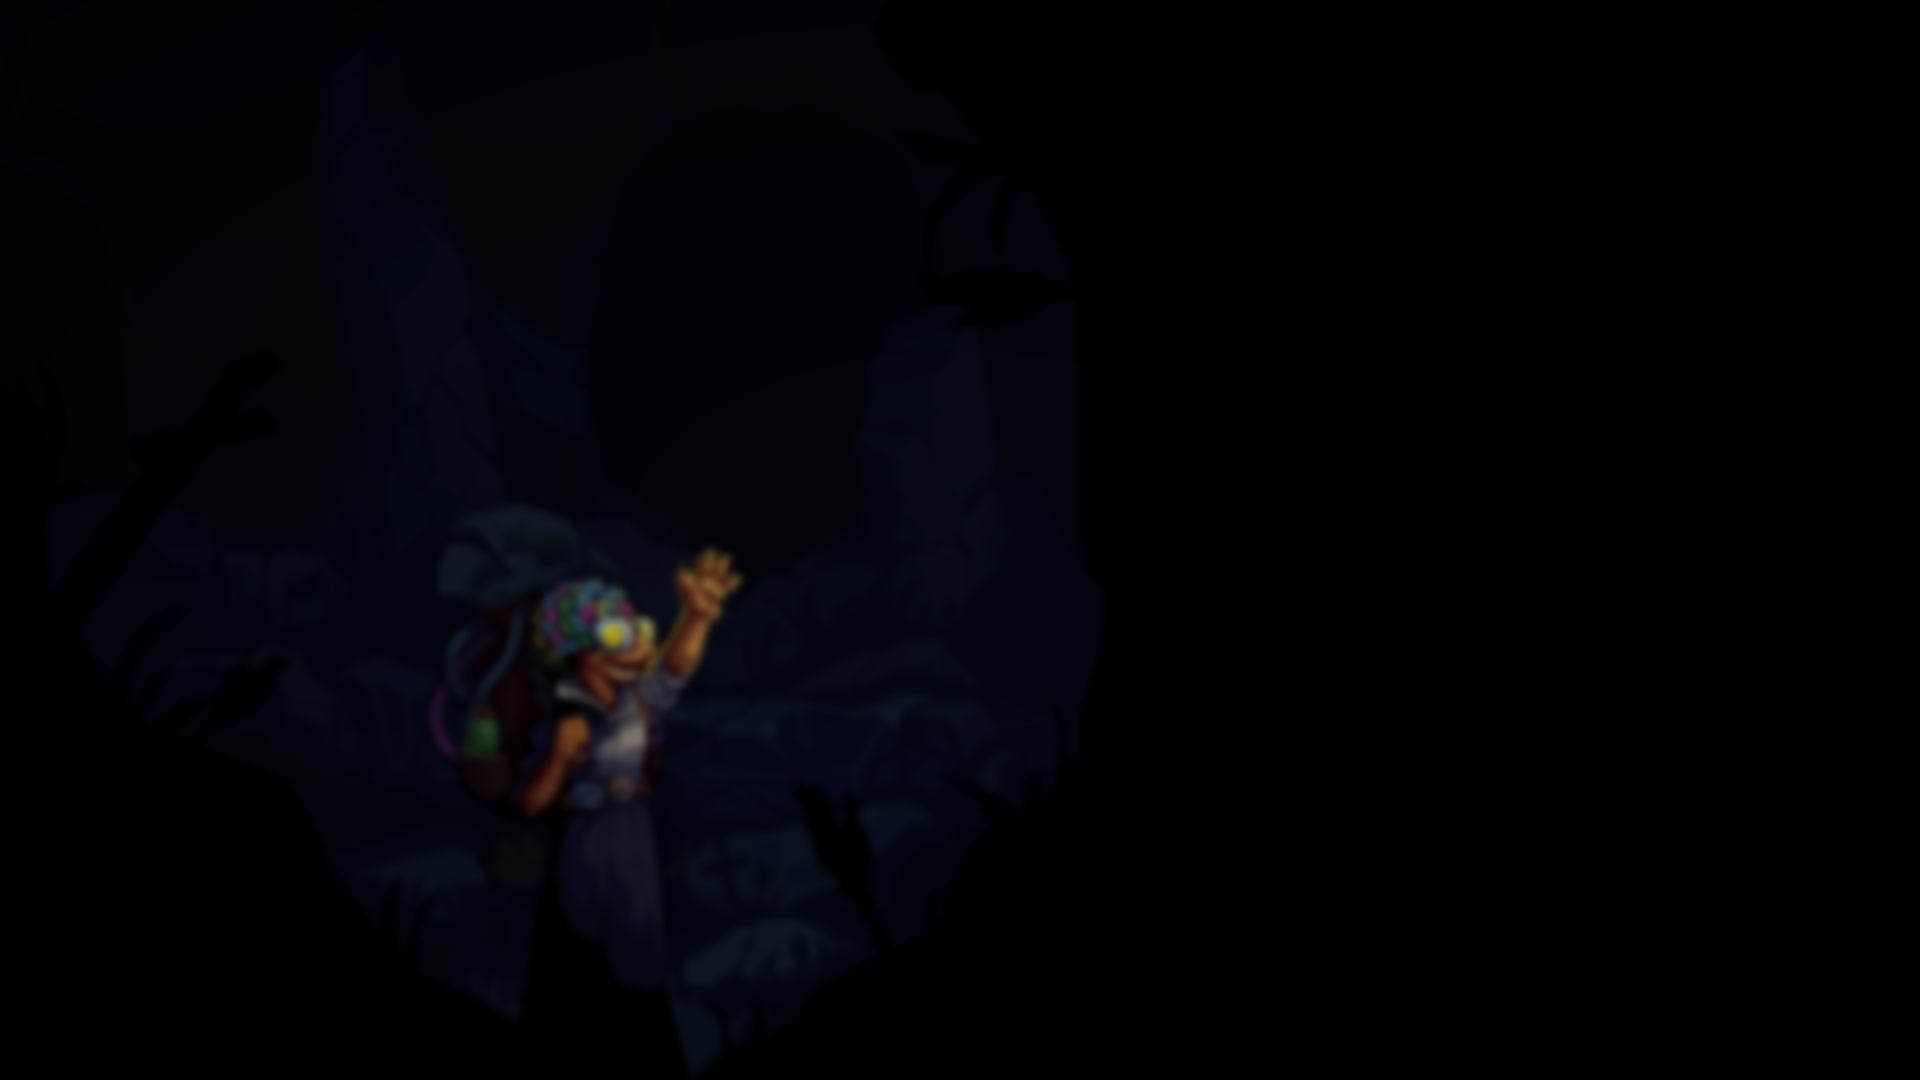
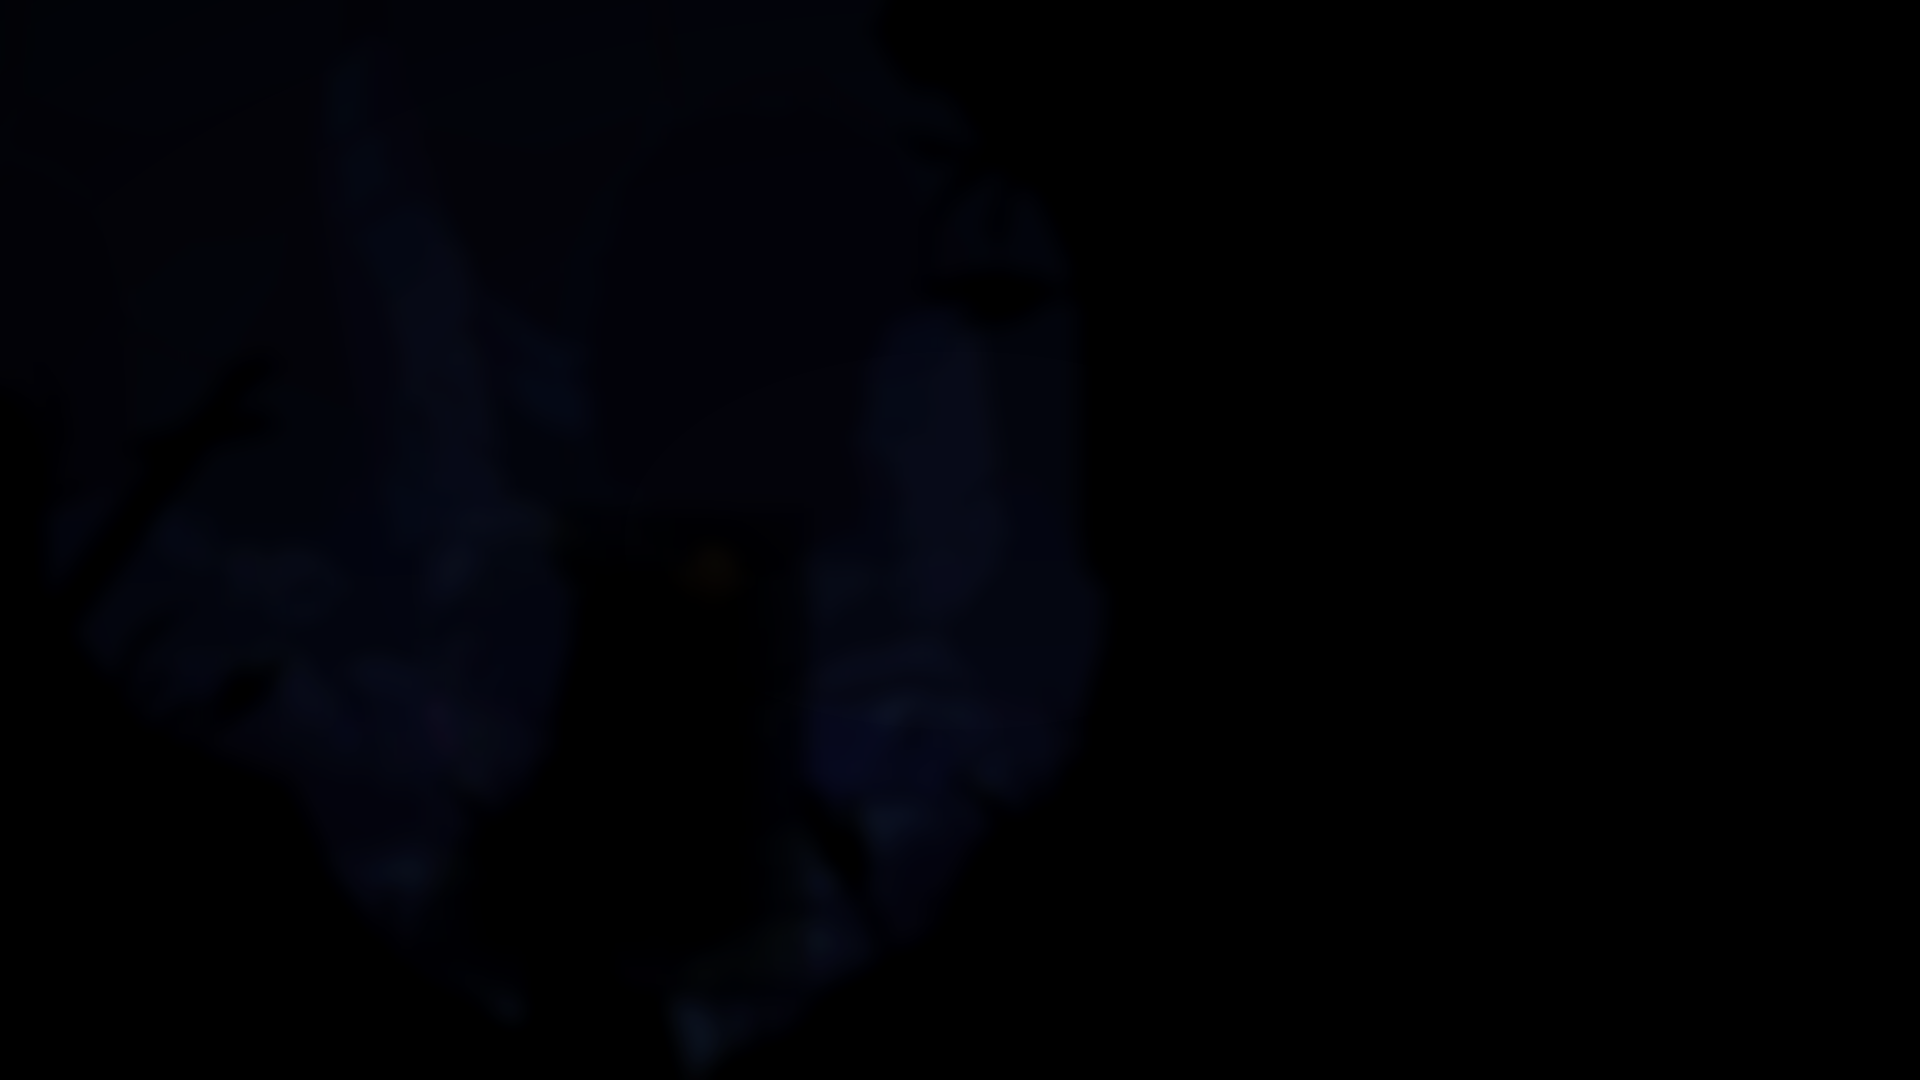
art: clean select backdrop, animation contact sheet, headless test script hardening

Changed region(s): [[0.2188, 0.4889, 0.4062, 0.8861], [0.3438, 0.8556, 0.4062, 0.9167]]

diff --git a/art/preview_sheet.py b/art/preview_sheet.py
@@ -1,0 +1,103 @@
+"""Offline previews for the mod page / docs.
+
+Not part of the mod.  Renders:
+  docs/select_mockup.png  - the character select backdrop + portrait composition
+  docs/anim_preview.png   - contact sheet of the combat animation key poses
+
+The poses mirror MadScientistVisuals.cs (same offsets/rotations/scales), so this
+is a good approximation of what the in-game AnimationPlayer does.
+"""
+from __future__ import annotations
+
+from pathlib import Path
+
+from PIL import Image, ImageDraw, ImageFont
+
+ROOT = Path(__file__).resolve().parent.parent
+IMG = ROOT / "MadScientist" / "images"
+DOCS = ROOT / "docs"
+FONT = r"C:\Windows\Fonts\msyh.ttc"
+FONT_B = r"C:\Windows\Fonts\msyhbd.ttc"
+
+GREEN = (168, 224, 95)
+
+
+def select_mockup() -> None:
+    bg = Image.open(IMG / "events" / "tinker_time_bg.png").convert("RGB").resize((1920, 1080))
+    canvas = bg.convert("RGBA")
+
+    portrait = Image.open(IMG / "charui" / "char_select_mad_scientist.png").convert("RGBA")
+    scale = 3.4
+    p = portrait.resize((int(portrait.width * scale), int(portrait.height * scale)), Image.LANCZOS)
+    canvas.alpha_composite(p, (250, 1080 - p.height - 90))
+
+    d = ImageDraw.Draw(canvas)
+    f_title = ImageFont.truetype(FONT_B, 64)
+    f_sub = ImageFont.truetype(FONT, 26)
+    d.text((250, 120), "疯狂科学家", font=f_title, fill=GREEN, stroke_width=5, stroke_fill=(8, 12, 9, 255))
+    d.text((252, 200), "THE MAD SCIENTIST", font=f_sub, fill=(226, 236, 220), stroke_width=3, stroke_fill=(8, 12, 9, 255))
+
+    # fake info panel on the right, just for composition
+    panel = Image.new("RGBA", (470, 560), (12, 16, 13, 170))
+    canvas.alpha_composite(panel, (1330, 260))
+    d.text((1362, 300), "生命 70 / 70", font=ImageFont.truetype(FONT, 34), fill=(230, 235, 225))
+    d.text((1362, 360), "初始遗物：燃烧之血（占位）", font=ImageFont.truetype(FONT, 26), fill=(190, 200, 185))
+    d.text((1362, 420), "卡池：疯狂科学家", font=ImageFont.truetype(FONT, 26), fill=(190, 200, 185))
+    canvas.convert("RGB").save(DOCS / "select_mockup.png")
+
+
+def anim_preview() -> None:
+    sprite = Image.open(IMG / "character" / "combat.png").convert("RGBA")
+    w, h = sprite.size
+    pad = 40
+    cell_w, cell_h = w + pad * 2, h + pad * 2
+
+    poses = [
+        ("待机 0.0s", 0, 0, -0.010, 1.000, 1.000, 1.0, (255, 255, 255)),
+        ("待机 1.4s", 0, -5, 0.012, 1.004, 0.996, 1.0, (255, 255, 255)),
+        ("攻击 蓄力", -6, 2, -0.030, 0.970, 1.040, 1.0, (255, 255, 255)),
+        ("攻击 命中", 46, -8, 0.075, 1.060, 0.940, 1.0, (255, 248, 210)),
+        ("施法", 0, -14, 0.000, 1.050, 1.050, 1.0, (200, 255, 210)),
+        ("受击", -11, 1, -0.030, 1.000, 1.000, 1.0, (255, 140, 130)),
+    ]
+
+    sheet = Image.new("RGB", (cell_w * 3, (cell_h + 60) * 2 + 70), (24, 28, 26))
+    d = ImageDraw.Draw(sheet)
+    label_font = ImageFont.truetype(FONT, 24)
+    title_font = ImageFont.truetype(FONT_B, 34)
+    d.text((20, 6), "战斗动画关键帧预览（与代码里的关键帧一致）", font=title_font, fill=GREEN)
+
+    for i, (label, dx, dy, rot, sx, sy, alpha, tint) in enumerate(poses):
+        cell = Image.new("RGBA", (cell_w, cell_h), (34, 38, 36, 255))
+        # ground line
+        gd = ImageDraw.Draw(cell)
+        gd.line([(30, cell_h - 44), (cell_w - 30, cell_h - 44)], fill=(60, 66, 62), width=2)
+
+        frame = sprite.copy()
+        frame.putalpha(frame.getchannel("A").point(lambda v: int(v * alpha)))
+        frame = frame.resize((int(w * sx), int(h * sy)), Image.LANCZOS)
+        frame = frame.rotate(-rot * 57.2958, resample=Image.BICUBIC, center=(frame.width // 2, frame.height))
+        tint_layer = Image.new("RGBA", frame.size, (*tint, 0))
+        r, g, b, a = frame.split()
+        tr = Image.merge("RGBA", (
+            r.point(lambda v: min(255, int(v * tint[0] / 255))),
+            g.point(lambda v: min(255, int(v * tint[1] / 255))),
+            b.point(lambda v: min(255, int(v * tint[2] / 255))),
+            a,
+        ))
+        frame = Image.blend(frame, tr, 0.55) if tint != (255, 255, 255) else frame
+        cell.alpha_composite(frame, (pad + dx, cell_h - 44 - frame.height + dy))
+
+        col, row = i % 3, i // 3
+        sheet.paste(cell.convert("RGB"), (col * cell_w, 50 + row * (cell_h + 60)))
+        d.text((col * cell_w + 16, 50 + row * (cell_h + 60) + cell_h + 16), label,
+               font=label_font, fill=(200, 210, 195))
+
+    sheet.save(DOCS / "anim_preview.png")
+
+
+if __name__ == "__main__":
+    DOCS.mkdir(exist_ok=True)
+    select_mockup()
+    anim_preview()
+    print("previews written to docs/")

diff --git a/art/build_art.py b/art/build_art.py
@@ -235,21 +235,35 @@ def silhouette(im: Image.Image, size: tuple[int, int], color=(0, 0, 0)) -> Image
 
 
 def build_select_bg() -> None:
-    """16:9 backdrop for the character select screen, reusing the event illustration."""
+    """16:9 backdrop for the character select screen, reusing the event illustration.
+
+    The event's own scientist is painted out (patched with nearby cave wall) so
+    she does not show up as a ghost behind the character portrait.
+    """
     im = Image.open(SRC).convert("RGB")
+
+    # patch out the original character with a clean piece of cave wall
+    patch = im.crop((1700, 760, 2340, 1500)).resize((580, 740), Image.LANCZOS)
+    mask = Image.new("L", (580, 740), 0)
+    ImageDraw.Draw(mask).rectangle((10, 10, 570, 730), fill=255)
+    mask = mask.filter(ImageFilter.GaussianBlur(60))
+    im.paste(patch, (930, 760), mask)
+
     w = int(im.height * 16 / 9)
     x0 = 300
     bg = im.crop((x0, 0, x0 + w, im.height)).resize((1920, 1080), Image.LANCZOS)
-    bg = bg.filter(ImageFilter.GaussianBlur(4))
-    arr = np.asarray(bg).astype(np.float32) * 0.82
+    bg = bg.filter(ImageFilter.GaussianBlur(10))
+
+    arr = np.asarray(bg).astype(np.float32) * 0.88
     arr[:, :, 1] *= 1.04
+    arr[:, :, 2] *= 1.02
     bg = Image.fromarray(np.clip(arr, 0, 255).astype(np.uint8))
 
     yy, xx = np.mgrid[0:1080, 0:1920]
     dx = (xx - 960) / 960.0
     dy = (yy - 540) / 540.0
     r = np.sqrt(dx * dx + dy * dy)
-    v = np.clip(1.0 - 0.40 * np.clip(r - 0.35, 0, 1.2) ** 1.4, 0.25, 1.0)
+    v = np.clip(1.0 - 0.38 * np.clip(r - 0.35, 0, 1.2) ** 1.4, 0.28, 1.0)
     arr = np.asarray(bg).astype(np.float32) * v[..., None]
     Image.fromarray(np.clip(arr, 0, 255).astype(np.uint8)).save(OUT / "events" / "tinker_time_bg.png")
 

diff --git a/README.md b/README.md
@@ -101,7 +101,24 @@ D:\DSH_work\.dotnet\dotnet.exe build -c Release
   `eventDeathPrevention`、`goldMonologue`、`cardsModifierTitle`、`cardsModifierDescription`、`bestiaryQuote`。
 - 角色主题色：`#A8E05F`（酸绿色，取自背包上的试剂瓶）；卡背 HSV = (0.24, 0.72, 1.0)。
 
-## 6. 不想打扰正在运行的游戏时
+## 6. 无头测试（不开窗口）
+
+```powershell
+powershell -ExecutionPolicy Bypass -File tools	est_headless.ps1
+```
+
+游戏以 `--headless` 启动，脚本从 `godot.log` 里等 `[MadScientist] [Diag]` 一行，拿到结果后只关闭自己启动的那个进程。
+检测到游戏已经在运行时会直接退出（避免抢 `settings.save` / 日志）。
+
+## 7. 预览图（离线渲染，非游戏截图）
+
+- `docs/select_mockup.png` —— 角色选择背景 + 立绘的合成预览
+- `docs/anim_preview.png` —— 战斗动画关键帧（和代码里的关键帧数值一致）
+- `docs/preview.png` —— 各尺寸素材总览
+
+生成：`python art/preview_sheet.py`
+
+## 8. 不想打扰正在运行的游戏时
 
 编译到项目内的 `.deploy/` 而不是游戏目录：
 
@@ -112,7 +129,7 @@ dotnet build -c Release -p:ModsPath=D:\DSH_work\StS2_MadScientist\.deploy```
 
 无头测试脚本 `tools/test_headless.ps1` 在检测到游戏已运行时**会直接退出**，只停掉它自己启动的进程。
 
-## 7. 动画与角色选择背景
+## 8.1 动画与角色选择背景
 
 - 战斗形象：`MadScientistCode/Visuals/MadScientistVisuals.cs`
   - 用代码生成 `AnimationPlayer`（不依赖 Spine）：`Idle`（呼吸/轻微摆动，循环）、`Attack`（前冲+白闪）、`Cast`（起跳+绿光）、`Hurt`（抖动+红闪）、`Die`（倒地淡出），同时注册小写别名。
@@ -120,7 +137,7 @@ dotnet build -c Release -p:ModsPath=D:\DSH_work\StS2_MadScientist\.deploy```
 - 角色选择背景：`scenes/char_select_bg_mad_scientist.tscn`（Control + TextureRect），底图是事件插画做的高斯模糊 + 压暗 + 暗角版本 `images/events/tinker_time_bg.png`。
   - `.tscn` 由 `art/pack_scenes.py` 在 `dotnet build` 时追加进 `.pck`（PckPacker 本身不支持场景）。
 
-## 8. 当前状态
+## 9. 当前状态
 
 已完成：
 
